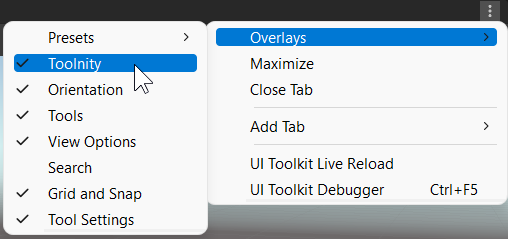
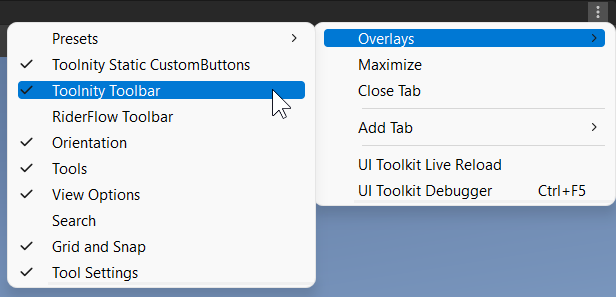
Updating documentation

diff --git a/Readme.md b/Readme.md
@@ -8,18 +8,23 @@
 
 ![Tools](.readme/Tools.png)
 
-* And you can add the Toolnity toolbar in your Scene view using the overlays
+* You can add the **Toolnity Toolbar** and **Toolnity Static CustomButtons Toolbar** in your Scene view using the overlays
 
 ![Toolbar](.readme/SceneToolbar.png)
 ![Scene Overlay](.readme/SceneOverlay.png)
 --------------------------------
 
 ## How to install it?
-The repository is ready to be used directly in Unity without the need to download it. You can add it to your project using the Repo-URL in the Project Manager.
+The repository is ready to be used directly in Unity without the need to download it. 
+You can add it to your project using the git URL in the Package Manager.
 
 ![PackageManager](.readme/PackageManager.png)
 
-The big part of the content is made from scratch, but some classes are from other authors or are inspired from other authors (in these cases, you will find the link inside the source)
+You can use also OpenUPM to link **Toolnity** by version (**recommended**).
+
+![ScopedRegistries](.readme/ScopedRegistries.png)
+
+ *The big part of the content is made from scratch, but some classes are from other authors or are inspired from other authors (in these cases, you will find the link inside the source)* 
 
 --------------------------------
 
@@ -28,7 +33,7 @@ You can enable and disable the most of the editor tools in your project settings
 
 ![Project Settings](.readme/ProjectSettings.png) 
 
-Remember to check the Context Menu in your Project Window to create Toolnity objects:
+Remember to check the Context Menu in your Project Window to create **Toolnity** objects:
 
 ![Project Context Menu](.readme/ProjectContextMenu.png)
 
@@ -76,10 +81,19 @@ Remember to check the Context Menu in your Project Window to create Toolnity obj
 
     ![ToDo List](.readme/ToDoList.png)
 
+#### CustomButton Attribute
+* Use `[CustomButton]` attribute in a method to have a shortcut in the **Toolnity Toolbar**
+
+  ![Custom Button](.readme/CustomButtons.png)
+
+* Use `[CustomButton]` attribute in an static method to have a button in the **Toolnity Static CustomButtons Toolbar**
+
+  ![Static Custom Button](.readme/StaticCustomButtons.png)
+
 #### Lightning Utilities
 * Different utilities related with the lightning on your scene
 
-    ![Lightning](.readme/Lightning.png)
+  ![Lightning](.readme/Lightning.png)
   
 #### Interesting Game Objects
 * InterestingGameObject component is an script that you can add to any game object and with Shift+N or using the Toolbar you can access to them quickly
